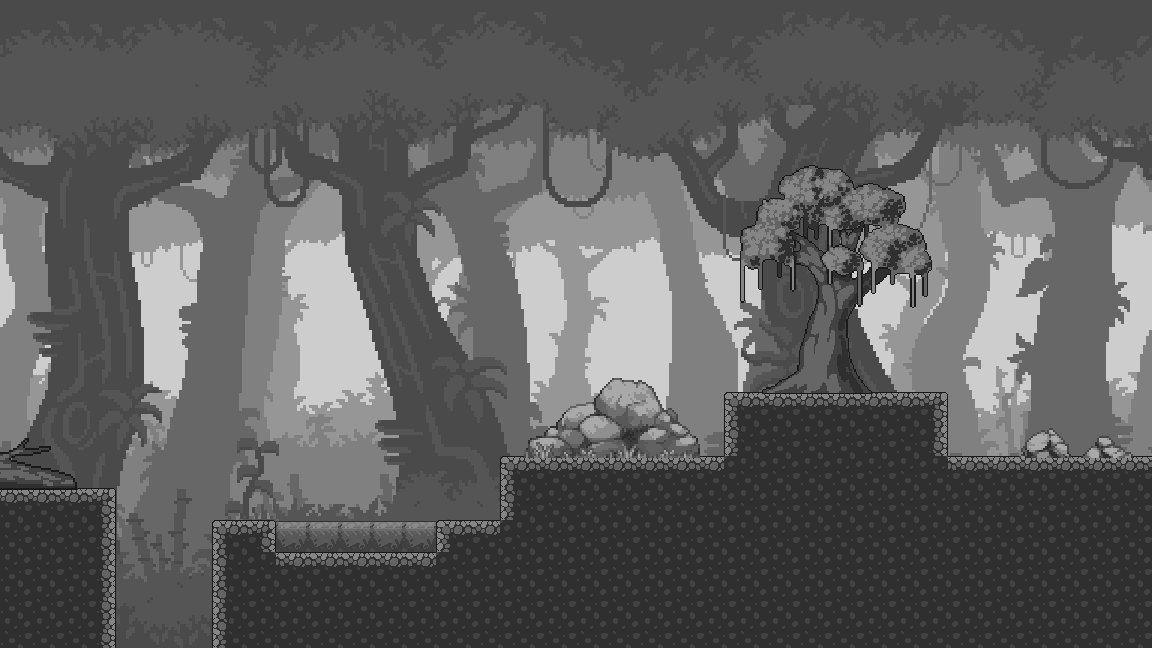
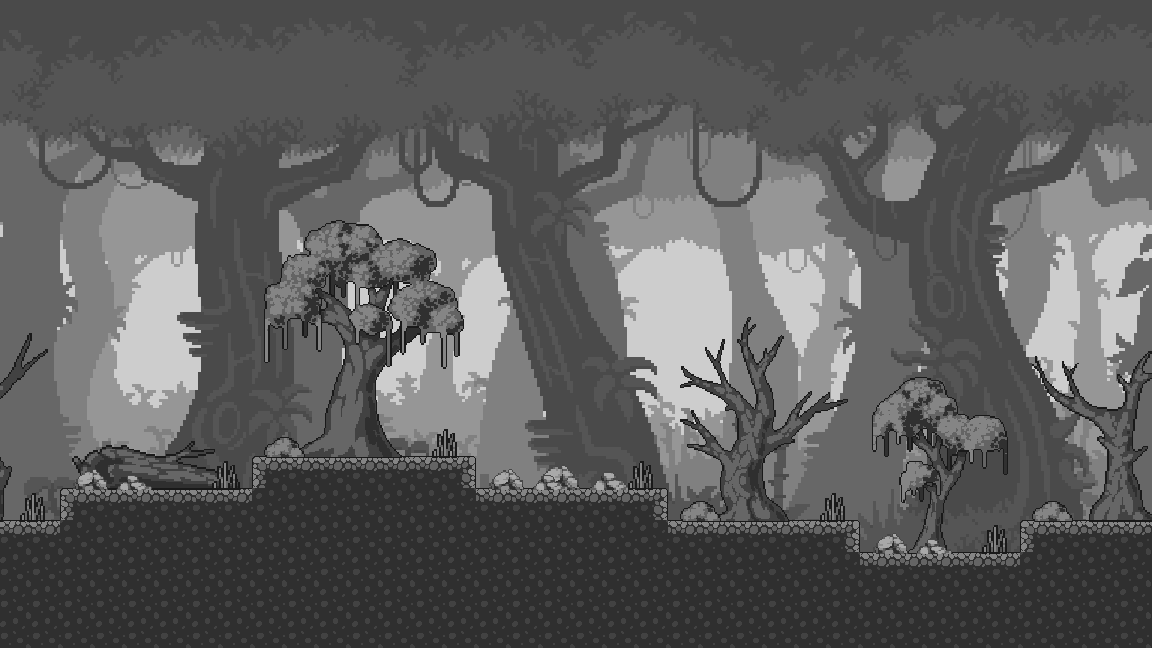
사원 미리보기 정리와 숲 전체 배치 및 폭포 애니메이션 미리보기 추가

diff --git a/tools/preview_levels.py b/tools/preview_levels.py
@@ -47,20 +47,25 @@ def main():
     output = Path(__file__).resolve().parent.parent / "previews"
     output.mkdir(exist_ok=True)
     with patch("pico2d.load_image", side_effect=Sprite):
-        for index in (0, 1):
-            level = Level(index)
+        for index in (0,):
+            level = Level()
             background = Background(level)
             player = Player(level)
             player.enter_level(level)
-            for label, camera in (("start", 0), ("middle", 1100), ("water", 2200),
-                                  ("exit", level.width - 1152), ("run_right", 0), ("run_left", 0)):
+            for label, camera in (("start", 0), ("middle", 900), ("water", 3400),
+                                  ("waterfall", 1900), ("end", level.width - 1152),
+                                  ("run_right", 0), ("run_left", 0)):
                 canvas = Image.new("RGB", (1152, 648))
-                if label == "exit":
-                    player.x, player.y = level.exit_x, level.exit_y + player.DRAW_SIZE / 2
+                player.enter_level(level)
+                if label == "end":
+                    player.x, player.y = level.end_x, 96 + player.DRAW_SIZE / 2
                 elif label == "water":
-                    pool = level.water[1]
+                    pool = level.water[2]
                     player.x = (pool.left + pool.right) / 2
                     player.y = pool.bottom + player.DRAW_SIZE / 2
+                elif label == "waterfall":
+                    pool = level.water[1]
+                    player.x, player.y = pool.left + 160, pool.bottom + player.DRAW_SIZE / 2
                 elif label.startswith("run_"):
                     player.enter_level(level)
                     if label == "run_left":
@@ -72,6 +77,25 @@ def main():
                 player.draw(camera)
                 background.draw_overlay(camera, player)
                 canvas.save(output / f"map{index + 1}_{label}.png")
+            # A moving preview uses the same draw calls and frame clock as the game.
+            frames = []
+            for step in range(20):
+                canvas = Image.new("RGB", (1152, 648))
+                background.water.time = step / 10
+                background.draw(1900)
+                background.draw_overlay(1900, player)
+                frames.append(canvas.copy())
+            frames[0].save(output / "forest_waterfall.gif", save_all=True,
+                           append_images=frames[1:], duration=100, loop=0)
+            overview = Image.new("RGB", (level.width, 648))
+            for left in range(0, level.width, 1152):
+                camera = min(left, level.width - 1152)
+                canvas = Image.new("RGB", (1152, 648))
+                background.draw(camera)
+                background.draw_overlay(camera, player)
+                width = min(1152, level.width - left)
+                overview.paste(canvas.crop((left - camera, 0, left - camera + width, 648)), (left, 0))
+            overview.resize((2560, 324), Image.Resampling.NEAREST).save(output / "forest_overview.png")
 
 
 if __name__ == "__main__":

diff --git a/tools/make_grayscale.py b/tools/make_grayscale.py
@@ -2,7 +2,7 @@
 
 from pathlib import Path
 
-from PIL import Image, ImageDraw, ImageOps
+from PIL import Image, ImageOps
 
 
 BACKGROUND_ROOT = Path(__file__).resolve().parent.parent / "image" / "background"
@@ -45,13 +45,6 @@ def main():
             folder = OUTPUT_ROOT / "objects" / "Rock"
             folder.mkdir(parents=True, exist_ok=True)
             gray.save(folder / f"{name}.png")
-    for name, text in (("press_e", "PRESS E  >  NEXT MAP"),
-                       ("grove", "01 / SILENT GROVE"),
-                       ("temple", "02 / FORGOTTEN TEMPLE"),
-                       ("controls", "A D MOVE   W JUMP   S FALL   E ENTER")):
-        label = Image.new("RGBA", (len(text) * 7 + 16, 26), (12, 12, 12, 225))
-        ImageDraw.Draw(label).text((8, 6), text, fill="white")
-        label.resize((label.width * 2, label.height * 2), Image.Resampling.NEAREST).save(OUTPUT_ROOT / f"{name}.png")
 
 
 if __name__ == "__main__":

diff --git a/README.md b/README.md
@@ -1,4 +1,4 @@
-# 흑백 횡스크롤 플랫포머
+# 흑백 숲 횡스크롤 플랫포머
 
 Python과 pico2d가 설치된 환경에서 프로젝트 루트의 `python main.py`로 실행합니다.
 전체화면으로 시작하며 게임 화면 전체를 16:9 비율로 맞춰 표시합니다.
@@ -7,35 +7,34 @@ Python과 pico2d가 설치된 환경에서 프로젝트 루트의 `python main.p
 - **A / D**: 왼쪽 / 오른쪽 이동
 - **스페이스바**: 지면에서 점프 (키를 떼었다 다시 누르기)
 - **S**: 공중에서 빠르게 내려오기
-- **E**: 출구 근처에서 `PRESS E`가 보이면 다음 맵으로 이동
 - **ESC** 또는 창 닫기: 종료
 
-첫 맵은 5겹의 정글 배경, 다음 맵은 4겹의 사원 배경입니다.
-각 맵은 3,840픽셀 길이이며, 사원 출구는 첫 맵으로 다시 연결됩니다.
-이끼 표면의 좌우 모서리, 흙 벽과 여러 내부 타일을 조합하고
-계단식 오르막·내리막과 점프로 건너는 틈을 배치했습니다. 공중에 떠 있는 발판은 제거했습니다.
-숲은 나무·쓰러진 나무·자연석 위주이며, 사원에는 비석·바위·석상을 배치했습니다.
-오브젝트는 투명 여백을 제외한 실제 너비가 평평한 마른 지면 안에 들어가도록 배치하고,
-밑면을 지면에 2픽셀 겹쳐 공중에 뜨거나 주변 지형을 뚫어 보이지 않도록 했습니다.
-오브젝트는 장식이며 출구는 표지판으로 표시합니다.
-발판에는 위·옆·아래 충돌을 적용하며 틈으로 떨어지면 해당 맵 시작점으로 돌아옵니다.
-연결된 지형 내부에는 풀 가장자리가 없는 `Tile_12`를 사용하고 드러난 벽에만 가장자리를 둡니다.
-각 맵의 물 웅덩이 3곳은 한 타일(32픽셀) 깊이로, 들어가서 바닥을 걸을 수 있습니다.
-물속 이동 속도는 70%이며 스페이스바로 둑 위까지 점프할 수 있습니다.
-반투명 물이 캐릭터 위에 겹쳐 보입니다.
+사원 맵과 다음 맵 전환을 제거하고 5,120픽셀 길이의 숲 맵 하나로 구성했습니다.
+`previews/Free.png`의 전체적인 배치를 참고해 낮은 골짜기 → 숲 언덕 → 높은 물가와 폭포 →
+넓은 강 → 낮은 연못 → 숲 가장자리로 이어집니다. Free의 에셋은 사용하지 않습니다.
+기존 정글 배경 5개 레이어가 서로 다른 속도로 스크롤합니다.
 
-캐릭터는 파란색 원본을 80×80 크기로 표시하고 정지 시 idle, 이동과 점프 시 run을 재생합니다.
-왼쪽 위 맵 이름과 조작 안내는 표시하지 않으며 출구의 `PRESS E` 안내만 유지합니다.
-배경·타일·기존 장식은 흑백이며 원본 이미지와 투명도는 보존합니다.
-Fantasy Swamp Forest 오브젝트는 사용하지 않습니다.
-지면에서 달릴 때 캐릭터 뒤쪽 발밑에 `SmokeFX Lite SpriteSheet 2A-2.png`의
-6프레임 연기 애니메이션을 재생합니다. 방향에 맞춰 반전하며, 생성된 연기는 월드 위치에
-남았다가 약 0.33초 뒤 사라집니다. 정지·공중·물속에서는 새 연기를 생성하지 않습니다.
-Pillow가 설치된 환경에서 `python tools/make_grayscale.py`로 흑백 자산을 다시 생성합니다.
+연결된 지형 내부에는 `Tile_12`, 드러난 면에만 이끼 가장자리를 사용합니다.
+공중 발판 없이 연결된 지형의 높낮이를 점프로 넘어갑니다.
+나무·덤불·풀·쓰러진 나무·자연석을 군집으로 배치하고,
+실제 보이는 영역 전체가 평평한 마른 지면 안에 들어가도록 크기와 위치를 맞췄습니다.
+오브젝트는 장식이며 밑면을 지면에 2픽셀 겹쳐 표시합니다.
 
-검증: `python -m unittest discover -s tests`
+물은 한 타일(32픽셀) 깊이이며 들어가서 바닥을 걸을 수 있습니다.
+물속 이동 속도는 70%이고 스페이스바로 물 밖으로 점프할 수 있습니다.
+`GandalfHardcore Water Tiles sheet.png`의 3프레임 수면을 초당 6프레임으로 재생하고,
+`GandalfHardcore Animated Water Tiles.png`의 20프레임 폭포와 물보라를 초당 10프레임으로 재생합니다.
+절벽 위 물가에서 아래 강으로 폭포가 떨어집니다. 배경·지형·장식·물은 흑백입니다.
 
-화면 미리보기: `python tools/preview_levels.py` (Pillow 필요).
-두 맵의 시작·중간·물속·출구·좌우 달리기 화면을 `previews/`에 저장합니다.
+캐릭터는 파란색 원본을 72×72 크기로 표시하며 정지 시 idle, 이동과 점프 시 run을 재생합니다.
+지면에서 달릴 때 뒤쪽 발밑에 Smoke FX Lite 2A-2의 6프레임 연기를 재생합니다.
+정지·공중·물속에서는 새 연기를 생성하지 않습니다.
 
-사용 자산: GandalfHardcore FREE Platformer Assets (자연석과 석상), Smoke FX Lite (달리기 연기).
+- 흑백 자산 생성: `python tools/make_grayscale.py` (Pillow 필요)
+- 테스트: `python -m unittest discover -s tests`
+- 미리보기 생성: `python tools/preview_levels.py` (Pillow 필요)
+
+`previews/`에 구간별 PNG, 전체 배치 `forest_overview.png`,
+폭포 애니메이션 `forest_waterfall.gif`를 저장합니다.
+
+사용 자산: GandalfHardcore FREE Platformer Assets (자연석·물·폭포), Smoke FX Lite (달리기 연기).
